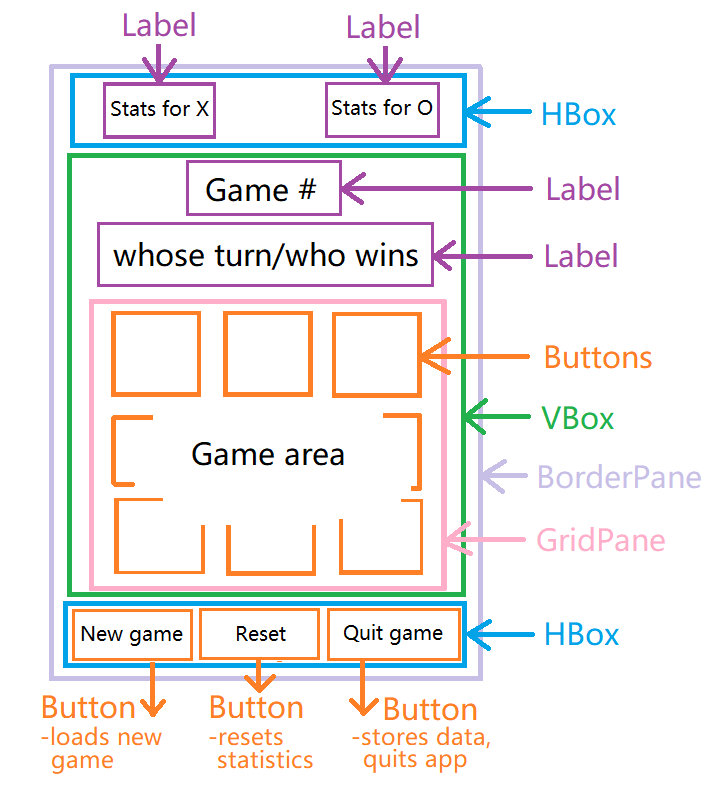
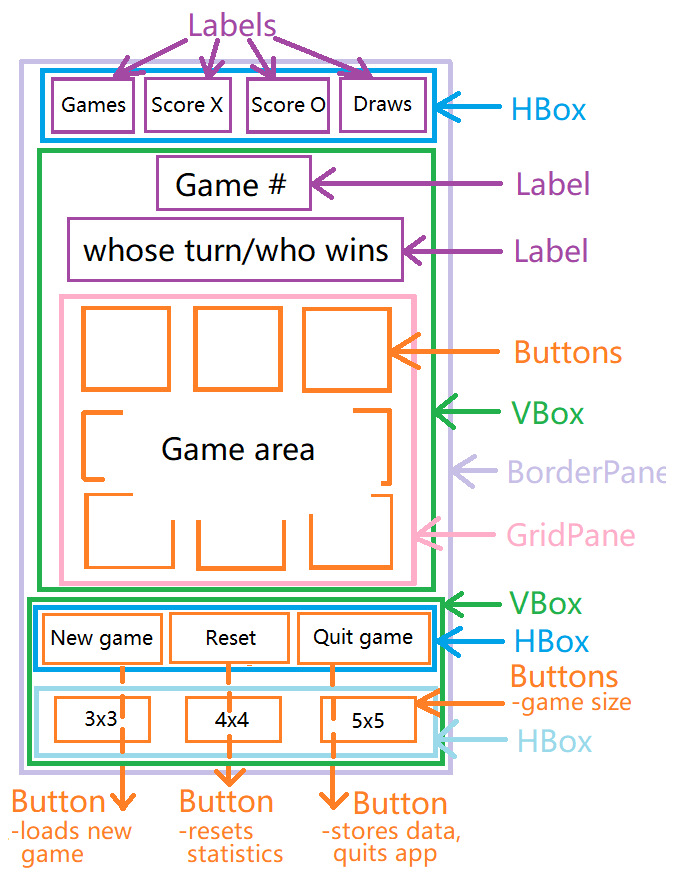
readme, määrittely update

diff --git a/dokumentointi/Vaatimusmaarittely.md b/dokumentointi/Vaatimusmaarittely.md
@@ -2,14 +2,14 @@
 
 ## Sovelluksen tarkoitus
 
-Ristinollasovellus on pieni 3x3 -kokoinen pelilauta, jossa käyttäjä/käyttäjät pelaavat ristinollaa.
+Ristinollasovellus on pieni pelilauta, jossa käyttäjä/käyttäjät pelaavat ristinollaa.
 Käyttäjää ei identifioida, eli ei ole sisäänkirjautumista.
 
 ## Käyttöliittymäluonnoss
 
 Kuvassa näkyvät komponentit, joista uloin (BorderPane) asettuu Sceneen joka puolestaan asettuu Stageen, joka näkyy sovellusikkunana.
 
-<img src="https://user-images.githubusercontent.com/46410240/77783360-652fee00-7061-11ea-8231-a18fb72c6a09.png" alt="Käyttöliittymäluonnos" width="450" >
+<img src="https://user-images.githubusercontent.com/46410240/78068470-21125580-73a1-11ea-8125-6cb33209f14c.png" alt="Käyttöliittymäluonnos" width="450" >
 
 ## Käyttäjät
 
@@ -19,18 +19,20 @@ Peli näkee pelaajat vain ristien ja nollien edustajina.
 ## Suunnitellut toiminnallisuudet
 
 - [ ] Peli tallentaa pelattujen pelien määrän sekä ristien ja nollien voitot tietokoneelle (käytännossä resurssitiedostoon tai tietokantaan).
-- [ ] Ristien ja nollien voittostatistiikka näkyy ylimpänä pelilaudan kulmissa.
+- [ ] pelilaudan yläosassa näkyy pelattujen pelien kokonaismäärä ja tasapelien määrä.
+- [ ] Ristien ja nollien voittostatistiikka näkyy pelilaudan yläosassa.
   - [x] Aluksi vain kulloisenkin pelin tilanne.
   - [ ] Lopulta myös tallennetut datat mukana.
 - [x] Seuraavaksi ylimpänä on teksti, joka ilmoittaa kulloisenkin pelin numeron.
 - [x] Tämän alla on teksti, jossa ilmoitetaan pelattavan symbolin vuoro sekä pelin loputulos.
 - [x] Keskellä ikkunaa on isoin laatikko, jossa on itse peliruudukko.
-- [x] Alhaalla vasemmalla on uuden pelin avaava nappula, ja oikealla nappula jolla suljetaan peli.
-- [ ] Alhaalla keskellä on pelitilaston nollaava nappula.
+- [x] Peliruudukon alla vasemmalla on uuden pelin avaava nappula.
+- [ ] Peliruudukon alla keskellä on nappula joka resetoi pelin ja tallennetun datan.
+- [x] Peliruudukon alla oikealla on nappula jolla suljetaan peli.
+- [ ] Alimpana on nappulat, joilla voi valita pelin koon: 3x3, 4x4 ja 5x5.
 
 ## Jatkokehitysideat
 
 * Pelaajien identifiointi, eli sisäänkirjautuminen tai uuden pelaajatilin luominen.
 Tällöin pelistatistiikka (pelit, voitot, häviöt) tallentuu kunkin pelaajan osalta.
 * Vaihtoehtona pelata tietokonetta vastaan.
-* Isompia pelilautoja kuin 3x3, vapaasti pelaajan valittavissa.

diff --git a/README.md b/README.md
@@ -10,8 +10,6 @@ Sovellus on luotu Javan versiolla 11 ja käyttäen JavaFX:n versiota 14.
 
 ## Dokumentaatio
 
-* [gitlog.txt](https://github.com/gitjms/ot-harjoitustyo/blob/master/laskarit/viikko1/gitlog.txt)
-* [komentorivi.txt](https://github.com/gitjms/ot-harjoitustyo/blob/master/laskarit/viikko1/komentorivi.txt)
 * [Vaatimusmäärittely](https://github.com/gitjms/ot-harjoitustyo/blob/master/dokumentointi/Vaatimusmaarittely.md)
 * [Työaikakirjanpito](https://github.com/gitjms/ot-harjoitustyo/blob/master/dokumentointi/Tyoaikakirjanpito.md)
 
@@ -32,3 +30,8 @@ mvn jacoco:report
 Kattavuusraporttia voi tarkastella avaamalla selaimella tiedosto target/site/jacoco/index.html
 
 
+Projektin koodin pystyy suorittamaan NetBeansin vihreällä napilla tai/ja komennolla
+
+```
+mvn compile exec:java -Dexec.mainClass=jms.tictactoe.Main
+```
